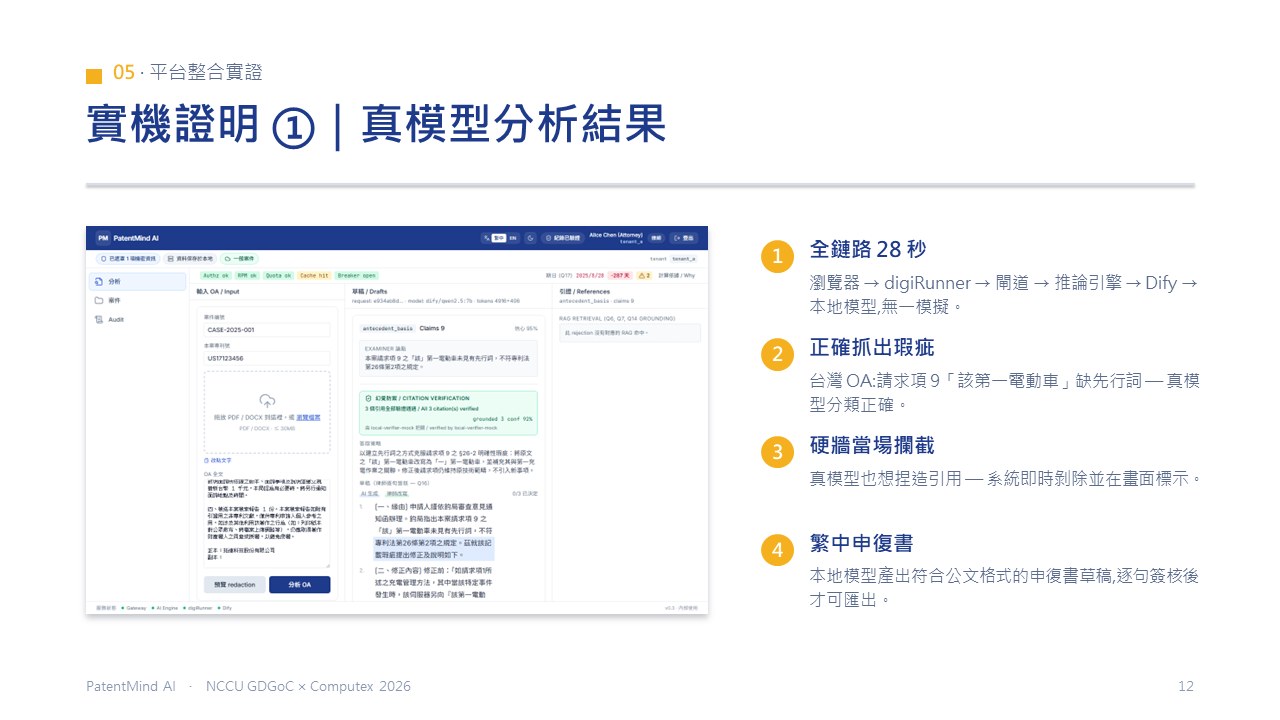
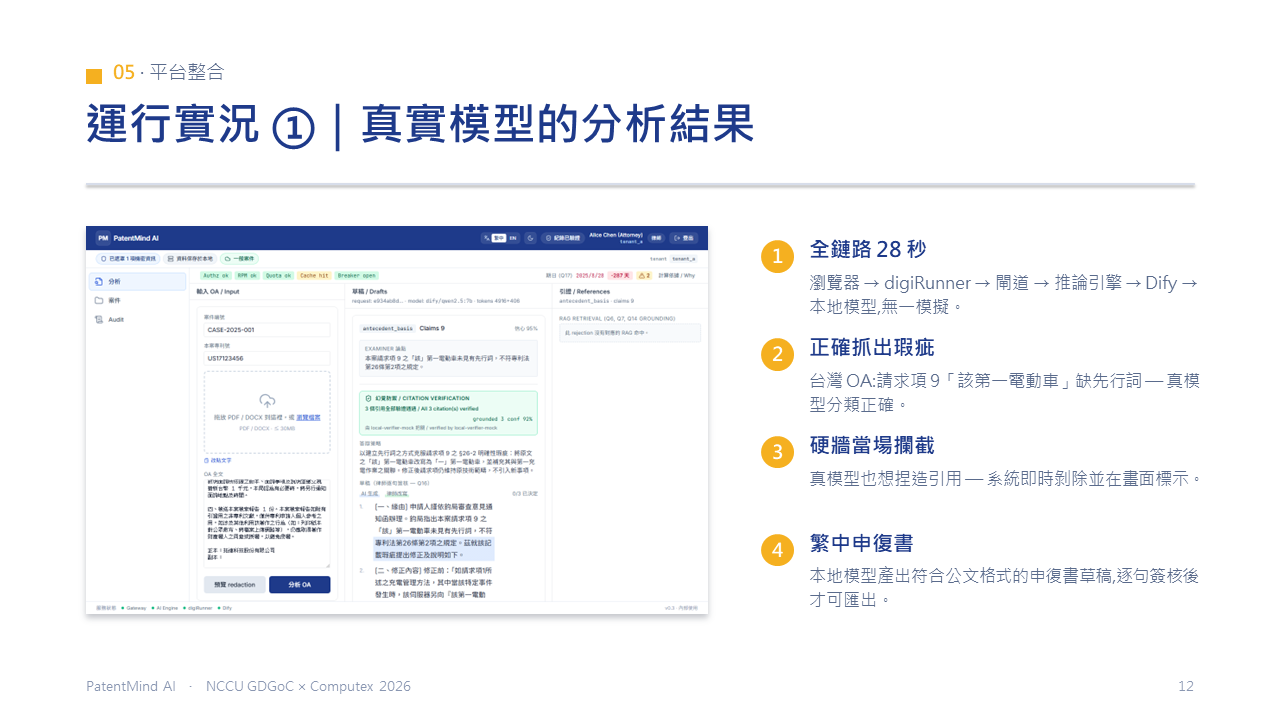
deck: retitle proof slides to 運行實況, soften 實證 wording

Changed region(s): [[0.3125, 0.1222, 0.5938, 0.2139], [0.0625, 0.0917, 0.2188, 0.2139]]

diff --git a/presentation/build_pptx.py b/presentation/build_pptx.py
@@ -233,7 +233,7 @@ def s_agenda():
         ("2", "動機", "為什麼值得做"),
         ("3", "系統怎麼運作", "架構與信任設計"),
         ("4", "產品畫面", "三個關鍵畫面"),
-        ("5", "平台整合實證", "digiRunner × Dify 實機"),
+        ("5", "平台整合", "digiRunner × Dify 實機"),
         ("6", "現況與 Demo", "驗證數字 + 現場操作"),
     ]
     x0, y0 = 1.0, 2.35
@@ -416,7 +416,7 @@ def s_shot(num_label, kick, ttl, shot, notes, base=None):
 
 def s_platform(num_label, ttl, who, what, bullet_lines, verify_line):
     s = slide()
-    kicker(s, num_label, "平台整合實證")
+    kicker(s, num_label, "平台整合")
     title(s, ttl)
     ghost_num(s, num_label)
     txt(s, 0.9, 2.15, 11.5, 0.5,
@@ -507,14 +507,14 @@ s_platform("05", "實機整合 ②｜Dify AI 工作流",
         "引證驗證留在系統內:防幻覺的最後一道牆不外包給任何平台",
     ],
     "真實 OA 經 Dify + 本地模型完整分析:28 秒產出正確分類與繁中草稿。")
-s_shot("05", "平台整合實證", "實機證明 ①｜真模型分析結果",
+s_shot("05", "平台整合", "運行實況 ①｜真實模型的分析結果",
        "real_05_result_real_qwen.png", [
         ("全鏈路 28 秒", "瀏覽器 → digiRunner → 閘道 → 推論引擎 → Dify → 本地模型,無一模擬。"),
         ("正確抓出瑕疵", "台灣 OA:請求項 9「該第一電動車」缺先行詞 — 真模型分類正確。"),
         ("硬牆當場攔截", "真模型也想捏造引用 — 系統即時剝除並在畫面標示。"),
         ("繁中申復書", "本地模型產出符合公文格式的申復書草稿,逐句簽核後才可匯出。"),
        ], base=DELIVERY_SHOTS)
-s_shot("05", "平台整合實證", "實機證明 ②｜稽核鏈與服務狀態",
+s_shot("05", "平台整合", "運行實況 ②｜稽核鏈與服務狀態",
        "real_08_chain_verified.png", [
         ("記錄實際模型", "每筆分析的稽核列寫明用了哪個模型 — 可究責、可回溯。"),
         ("雜湊鏈全數驗證", "29 筆紀錄 0 不一致;一鍵驗證,竄改即現形。"),
